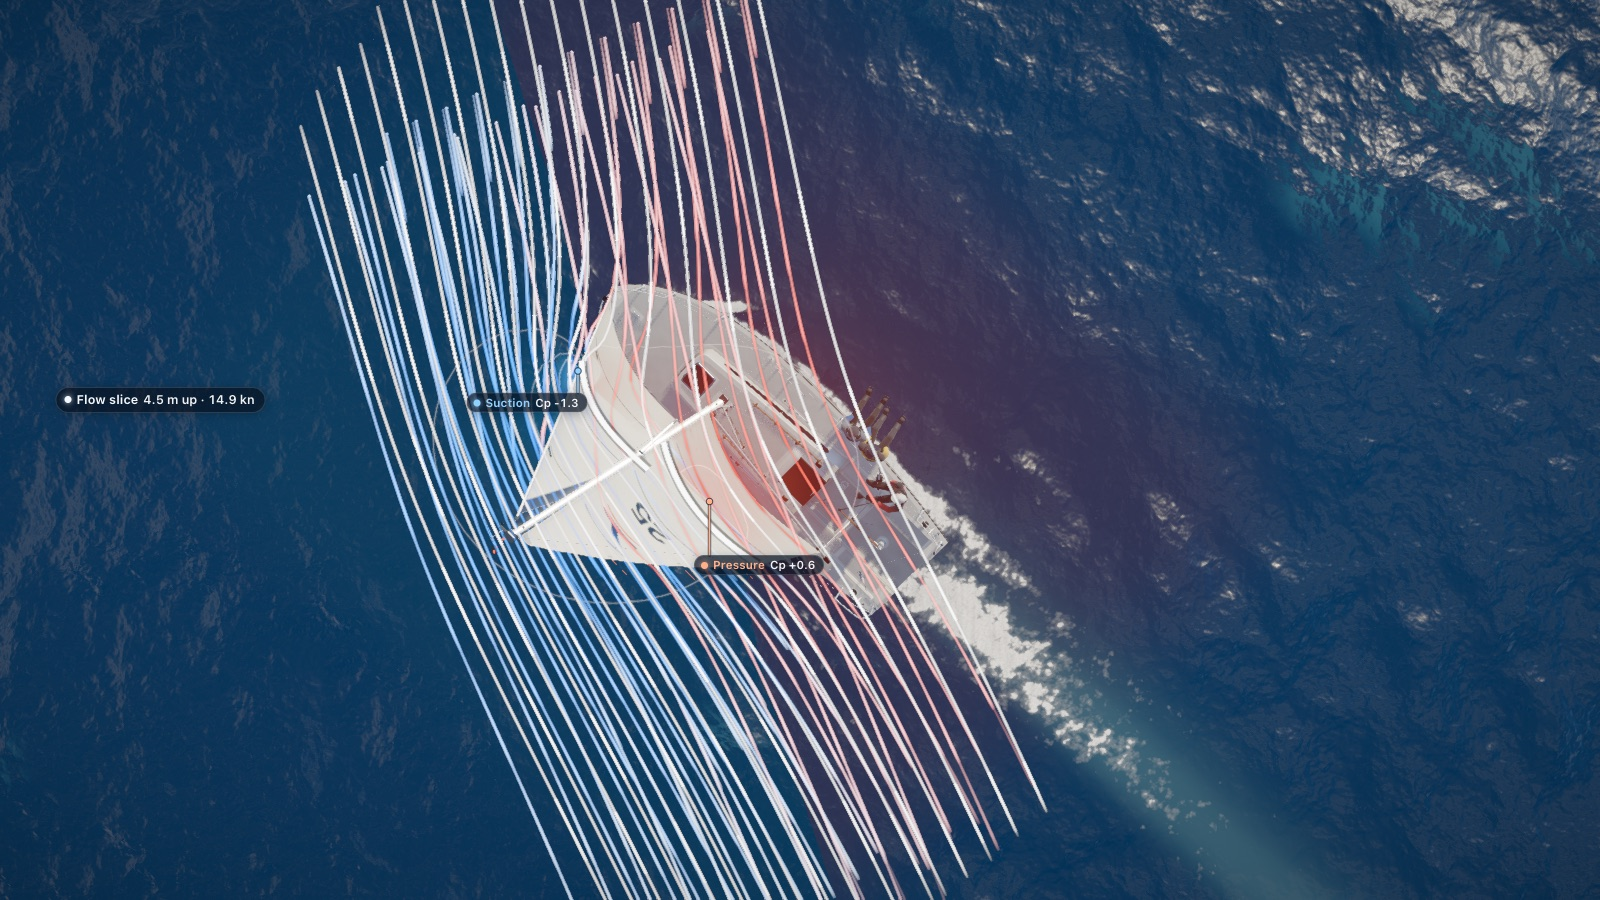
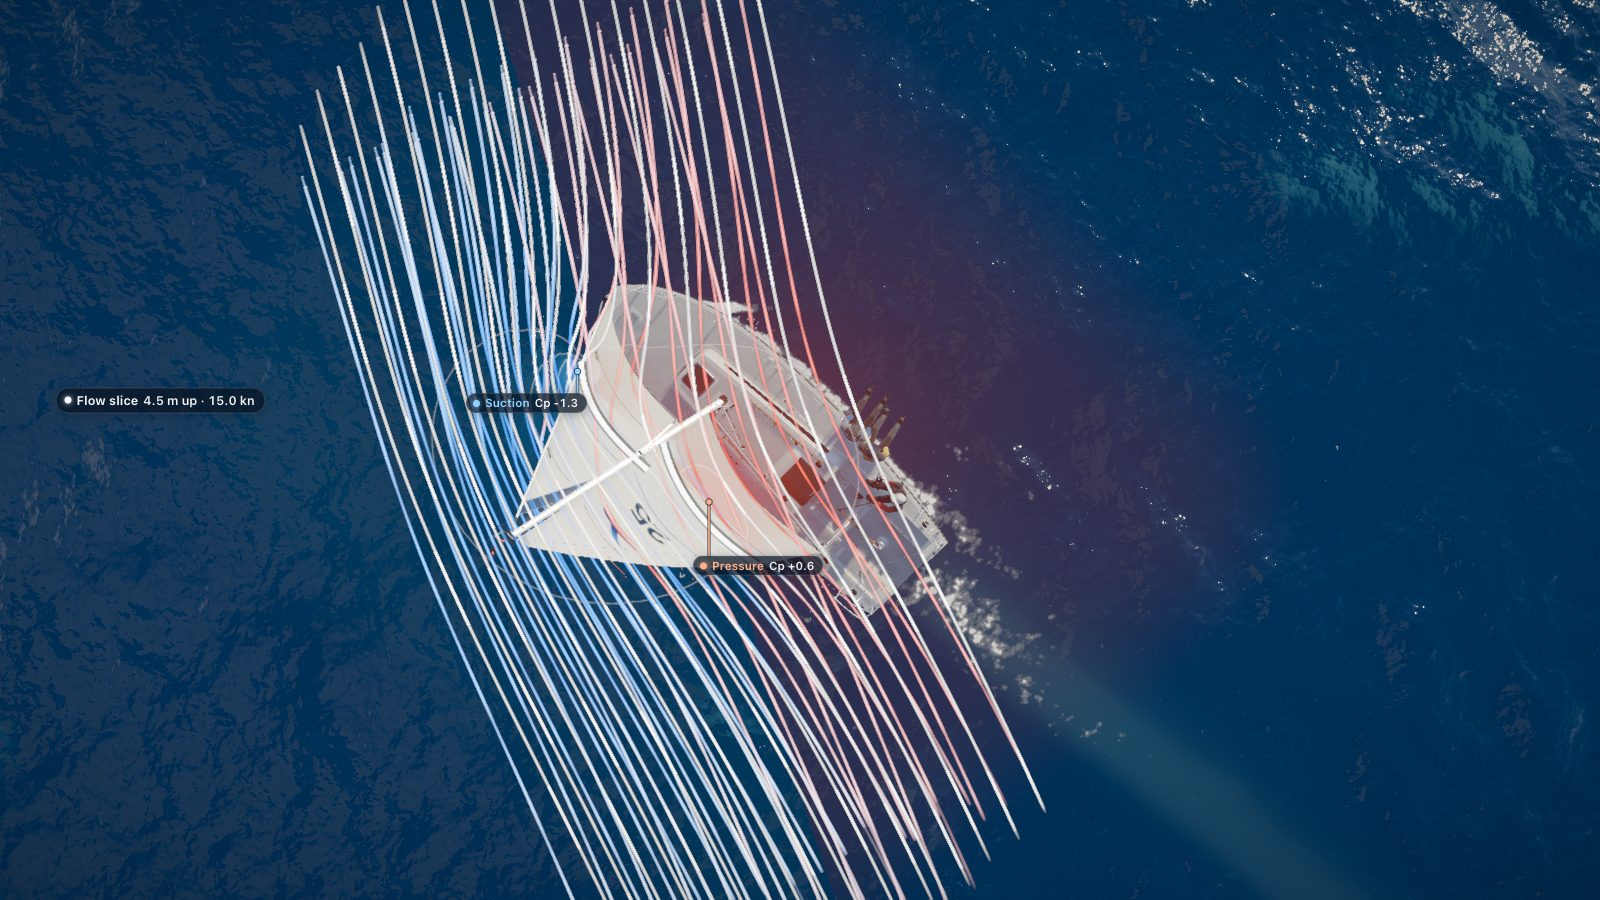
release: 1.0.0
- package.json 1.0.0; the 1.0.0 entry of the changelog is dated 2026-10-01.
- README pictures retaken on a GPU with the new sea (whitecaps, glitter,
  wake, mirror images) and the helm view without crew: scripts/shots.mjs
  with scripts/readme-shots.json, converted to JPEG at quality 82.
- The open-work note records what was released and what stays open.

diff --git a/docs/superpowers/notes/2026-10-01-open-work.md b/docs/superpowers/notes/2026-10-01-open-work.md
@@ -1,6 +1,7 @@
-# Open work before 1.0.0 (as of 2026-10-01)
+# Open work at 1.0.0 (as of 2026-10-01)
 
-What is still to do before the 1.0.0 tag, with enough detail to pick each item up cold. It comes from three
+1.0.0 was released on 2026-10-01 with the Critical and Important findings below fixed. This note keeps what was
+found, what was done about it, and what is still open, with enough detail to pick each item up cold. It comes from three
 reviews of the build of 2026-10-01: a hands-on visual QA pass (stopped part-way), a code review of the overlay
 rework, and a code review of the volumetric clouds. Items are ordered by how much a learner would notice.
 
@@ -186,15 +187,23 @@ Noted, not changed: with Forces and the wind triangle both on, a phone in landsc
 wheel's wind arrow in the top view runs up under the top bar; skipping a lesson's tasks can leave the boat where the
 skipped step left it (lesson 4: sails let right out).
 
-## 5. Release checklist
+## 5. Release checklist (done on 2026-10-01)
 
-1. Sections 1 to 3 above, at least the Critical and Important items.
-2. Retake the README pictures on a GPU machine once the sea is fixed:
-   `node scripts/shots.mjs scripts/readme-shots.json snaps/readme`, then convert each PNG to
-   `docs/images/<name>.jpg` (JPEG quality about 82).
-3. `package.json` version 1.0.0; the date of the 1.0.0 entry in `CHANGELOG.md`.
-4. Tag `v1.0.0` and publish a GitHub release with the changelog entry.
-5. Check the Pages deploy and the live site.
+1. Sections 1 to 3 above, the Critical and Important items: done (section 1; the clouds check in section 3).
+2. The README pictures were retaken on a GPU after the sea was fixed:
+   `node scripts/shots.mjs scripts/readme-shots.json snaps/readme`, then each PNG converted to
+   `docs/images/<name>.jpg` at JPEG quality 82.
+3. `package.json` version 1.0.0; the 1.0.0 entry in `CHANGELOG.md` dated 2026-10-01.
+4. Tag `v1.0.0` and a GitHub release with the changelog entry.
+5. The Pages deploy and the live site checked.
+
+Before the tag, on the GPU: all four tiers held 16.7 ms a frame at 1440×900 in 18 knots; a tack on the autopilot,
+the x-ray with forces at dusk and the helm view at dusk looked right.
+
+Not done, and not needed for the release: the rest of section 4's GPU list (film strips of a gybe, the spinnaker
+manoeuvres, a round-up and getting out of irons; every overlay against the High-tier sea; heap and GPU memory over
+five minutes; start-up time), the open Minor findings of section 1, and section 3's Low-tier clouds, cloud shadows
+on the sea and cost measurements.
 
 ## Decisions taken on 2026-10-01
 
@@ -204,3 +213,5 @@ skipped step left it (lesson 4: sails let right out).
 - A lesson gives the learner's own overlays and camera back when it ends.
 - Clicking the Free sail button while already in Free sail still restarts it: it is the only "start over" there.
 - With no GPU the app starts on the Low tier with the painted clouds.
+- The helm view draws no crew: the trimmers sat an arm's length in front of the camera and filled a quarter of the
+  picture. They are drawn in every other view, and their shadows stay.

diff --git a/CHANGELOG.md b/CHANGELOG.md
@@ -7,7 +7,7 @@ The format is based on [Keep a Changelog](https://keepachangelog.com/en/1.1.0/),
 
 ## [Unreleased]
 
-## [1.0.0] - 2026-09-30
+## [1.0.0] - 2026-10-01
 
 First public release.
 
@@ -49,8 +49,8 @@ First public release.
 - **Five cameras:** chase, helm, top (wind at the top of the screen), sail view and free. They keep the boat in the
   part of the window that the panels leave free, on a phone as well.
 - **Graphics.**
-  - An FFT ocean with whitecaps, gust patches, a wake, the boat's own waves and bow spray, adapted from ABYSSAL and
-    wave-riders.
+  - An FFT ocean with whitecaps that break and fade, sun glitter, gust patches, a wake, the boat's own waves and bow
+    spray, adapted from ABYSSAL and wave-riders.
   - A physically based sky with ray-marched volumetric cumulus clouds that drift with the wind, dim the sun when
     they cross it and are reflected in the sea, and a sun that follows the time of day. The default sky is scattered
     fair-weather cumulus that leave the boat in the sun most of the time.
